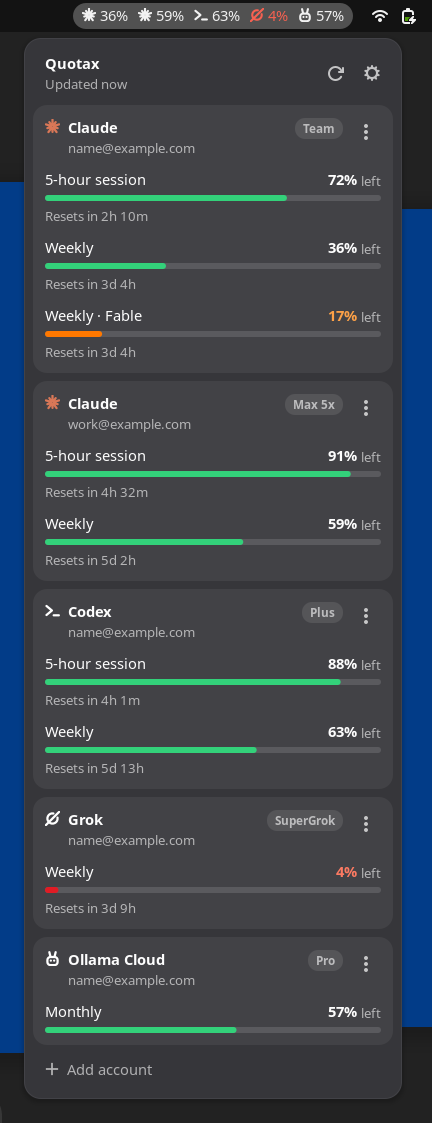
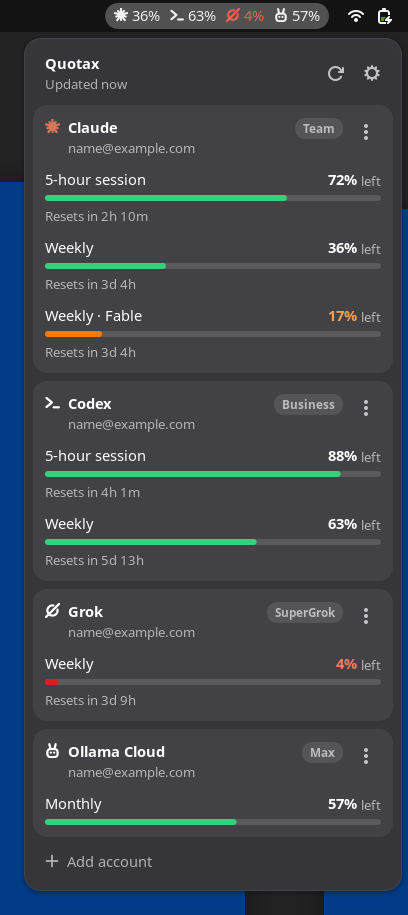
Show one sample account per service in the README screenshots

diff --git a/quotax/sample.py b/quotax/sample.py
@@ -6,7 +6,7 @@ import time
 from .models import Account, AccountIdentity, ProviderSnapshot, UsageWindow
 
 EMAIL = "name@example.com"
-PLANS = {"claude": "Team", "codex": "Plus", "grok": "SuperGrok", "ollama": "Pro"}
+PLANS = {"claude": "Team", "codex": "Business", "grok": "SuperGrok", "ollama": "Max"}
 
 
 def enabled() -> bool:
